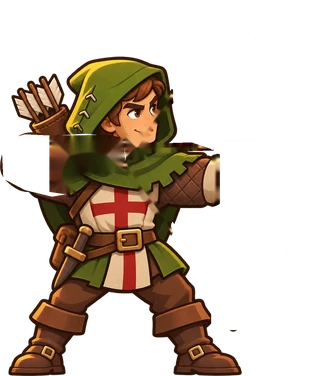
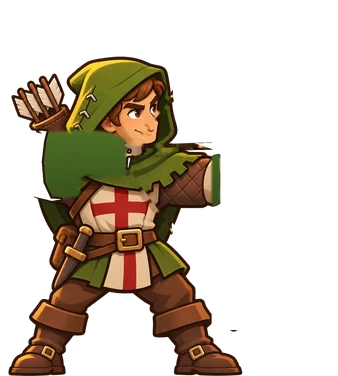
Longbowman rig: arms take their outline with them, clean cape behind the arm
Claude-Session: https://claude.ai/code/session_01FVYo8HxtAE7eYgB7GAivjD

Changed region(s): [[0.0, 0.1463, 0.7839, 1.0], [0.0, 0.4096, 0.0581, 0.4973]]

diff --git a/play.html b/play.html
@@ -2483,10 +2483,10 @@ function uPose(kind,t,a,o){const p=1-a,P={lean:Math.sin(t*1.3)*1.6+Math.sin(t*.5
   return P;}
 
 /* ================= RIGGED UNITS: characters built from parts with real joints (shoulder, elbow, bow arm) ================= */
-const RIG={archer:{H:92,feet:[484,1254],figH:1252,parts:{body:[67,1,1035,1253],upper:[74,448,247,209],fore:[205,446,282,159],bow:[772,1,357,1100]},
+const RIG={archer:{H:92,feet:[484,1254],figH:1252,parts:{body:[67,1,1126,1253],upper:[67,436,268,235],fore:[191,433,310,186],bow:[772,1,349,1100]},
   P:{top:[856,40],bot:[845,1045],nock:[488,498],tip:[1185,471],S:[300,560],E:[120,535],B:[790,580]}}};
 const RIMG={};
-function rigImg(type,n){const k=type+'_'+n;if(!RIMG[k]){const im=new Image();im.src='img/units/rig/'+k+'.webp?v='+BUILD;RIMG[k]=im;}return RIMG[k];}
+function rigImg(type,n){const k=type+'_'+n;if(!RIMG[k]){const im=new Image();im.src='img/units/rig/'+k+'.webp?v='+BUILD+'b';RIMG[k]=im;}return RIMG[k];}
 function rigReady(type){const R=RIG[type];if(!R)return false;let ok=true;for(const n in R.parts){const im=rigImg(type,n);if(!(im.complete&&im.naturalWidth))ok=false;}return ok;}
 const RTINT={};
 function rigPart(type,n,lv){if(lv<2)return rigImg(type,n);const k=type+n+lv;if(RTINT[k])return RTINT[k];const im=rigImg(type,n),c=document.createElement('canvas');c.width=im.naturalWidth;c.height=im.naturalHeight;const g=c.getContext('2d');g.drawImage(im,0,0);
@@ -2691,7 +2691,7 @@ const PERF={n:0,sum:0,cool:0};
 function perfTick(r){if(r<=0||r>0.5||GFX!=='auto')return;PERF.n++;PERF.sum+=r;PERF.cool-=r;if(PERF.sum<1.5||PERF.n<8)return;const avg=PERF.sum/PERF.n;PERF.n=0;PERF.sum=0;if(PERF.cool>0)return;
   if(avg>1/42&&QUAL>.5){QUAL=Math.max(.5,QUAL*.82);PERF.cool=1.4;resize();}else if(avg<1/57&&QUAL<1){QUAL=Math.min(1,QUAL*1.12);PERF.cool=4;resize();}}
 /* self-update: installed home-screen apps are often resumed, not restarted, so check for new versions ourselves */
-const BUILD='20261123-164957';
+const BUILD='20261123-165617';
 const UPD={ready:false,going:false,want:''};try{if(location.search.includes('v=')&&history.replaceState)history.replaceState(null,'','/play'+(location.search.includes('source=app')?'?source=app':''));}catch(e){}
 function checkUpdate(){if(BUILD==='dev')return;try{fetch('/version.json?t='+Date.now(),{cache:'no-store'}).then(r=>r.ok?r.json():null).then(v=>{if(v&&v.build&&v.build!==BUILD){let tried='';try{tried=sessionStorage.getItem('cq_upd')||'';}catch(e){}if(tried===v.build)return;UPD.want=v.build;UPD.ready=true;}}).catch(()=>{});}catch(e){}}
 function applyUpdate(){if(UPD.going)return;UPD.going=true;
